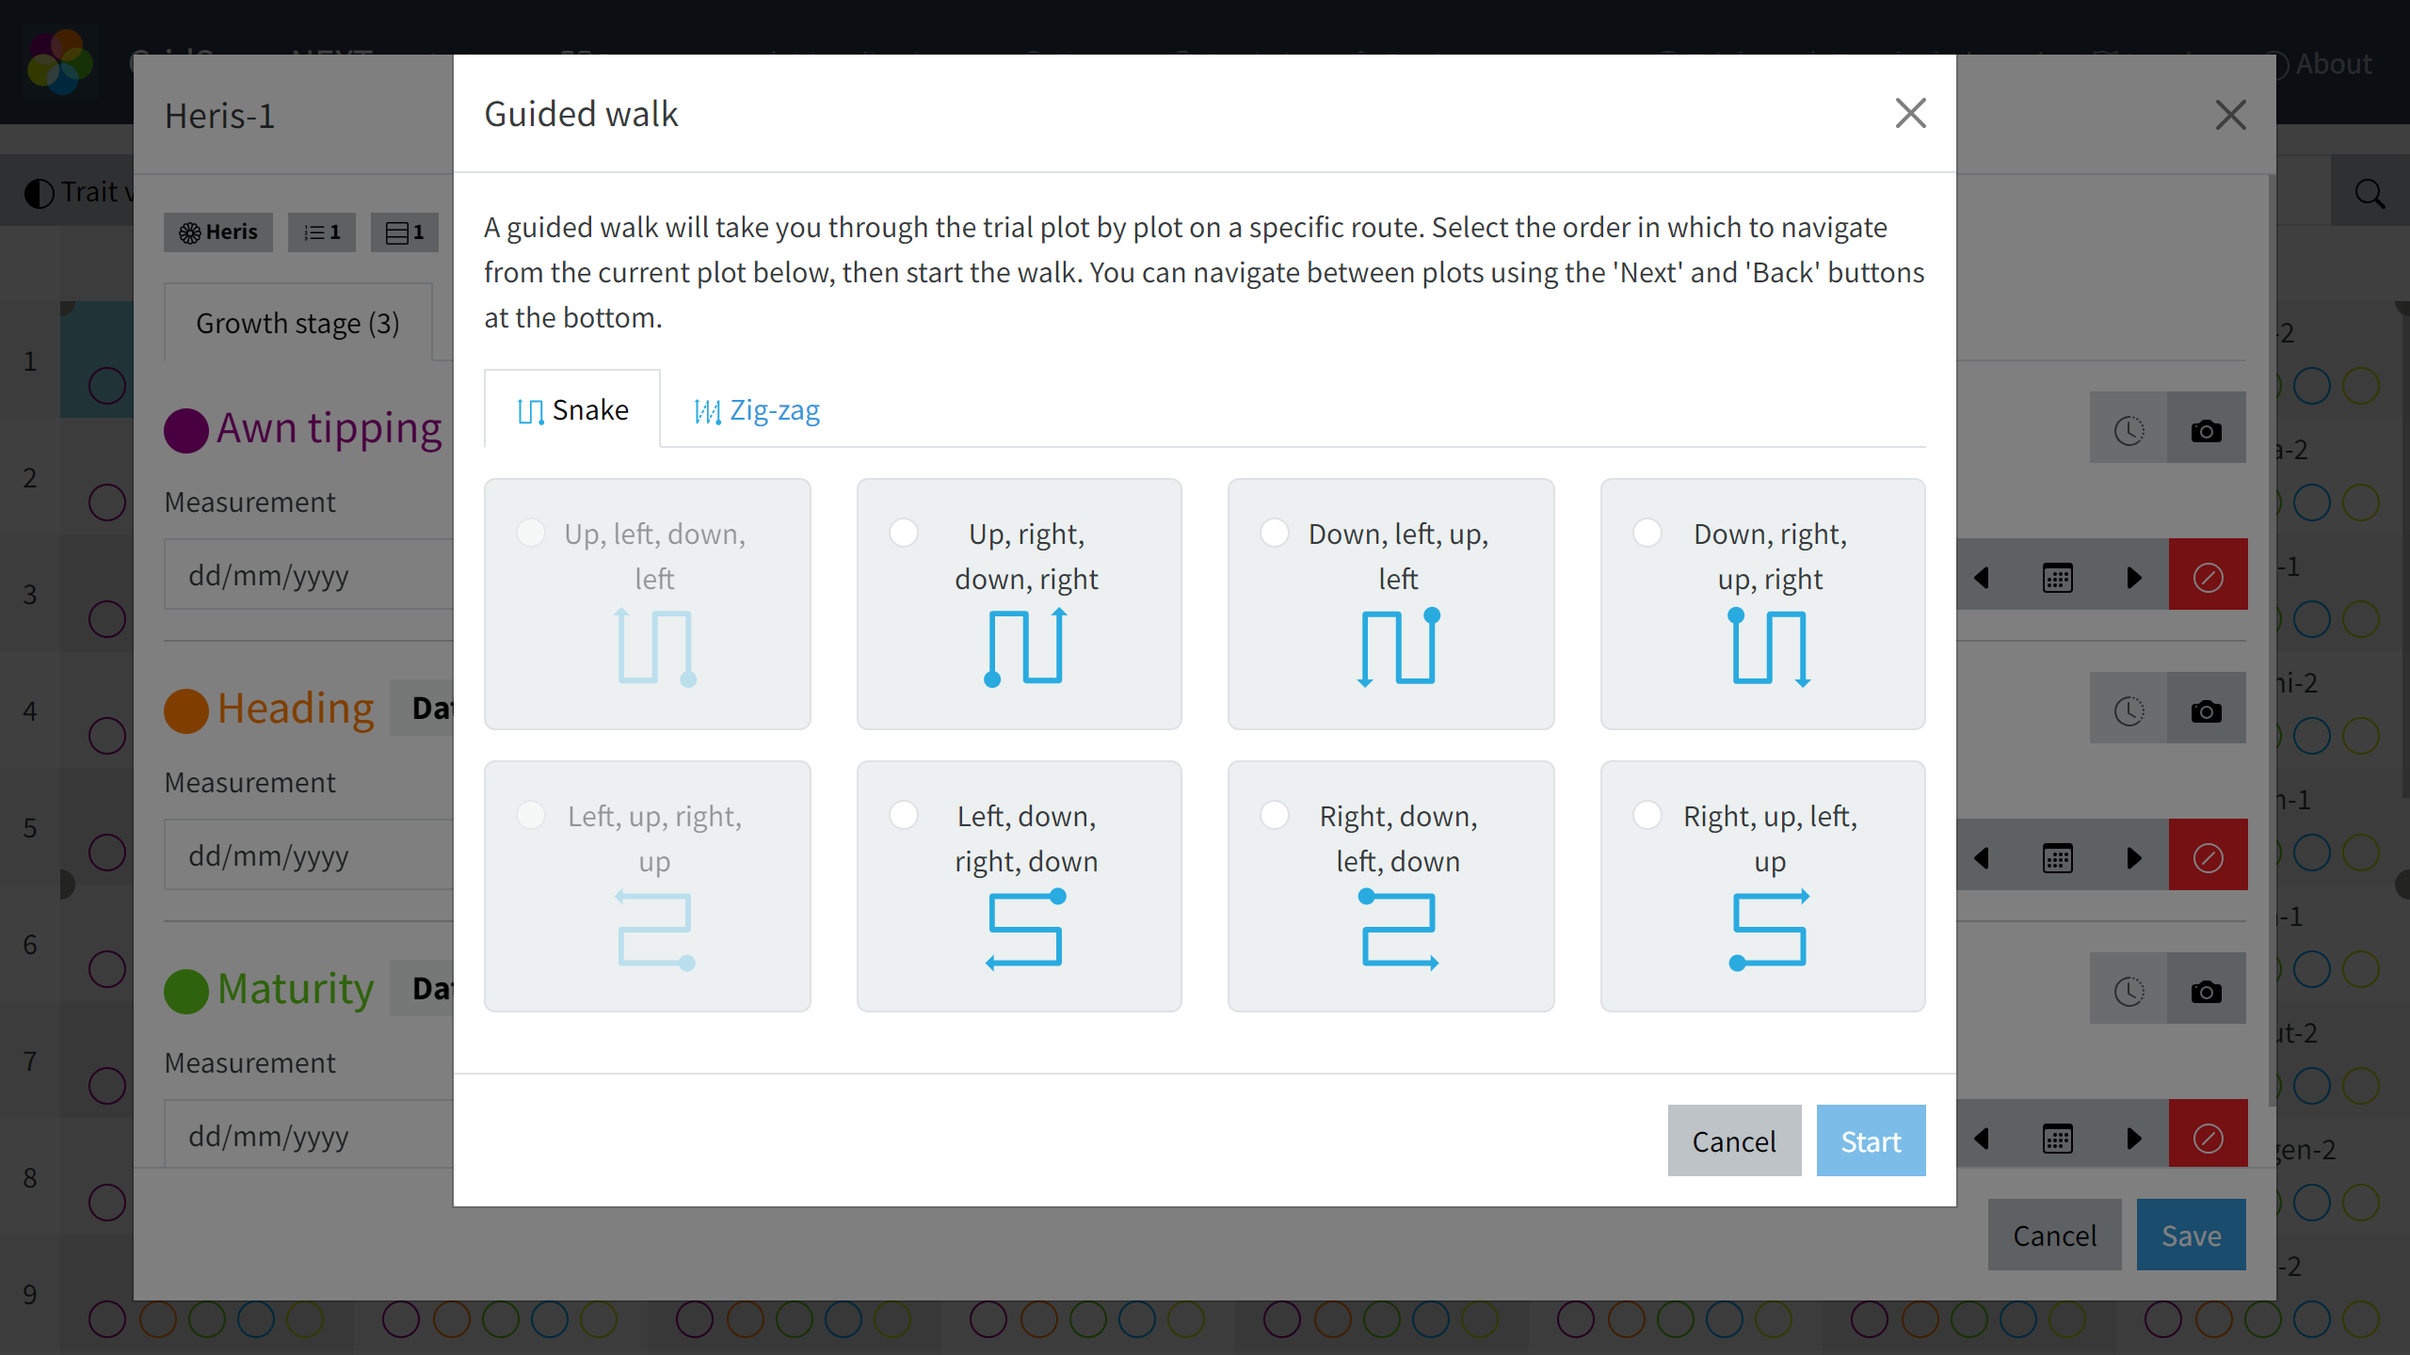
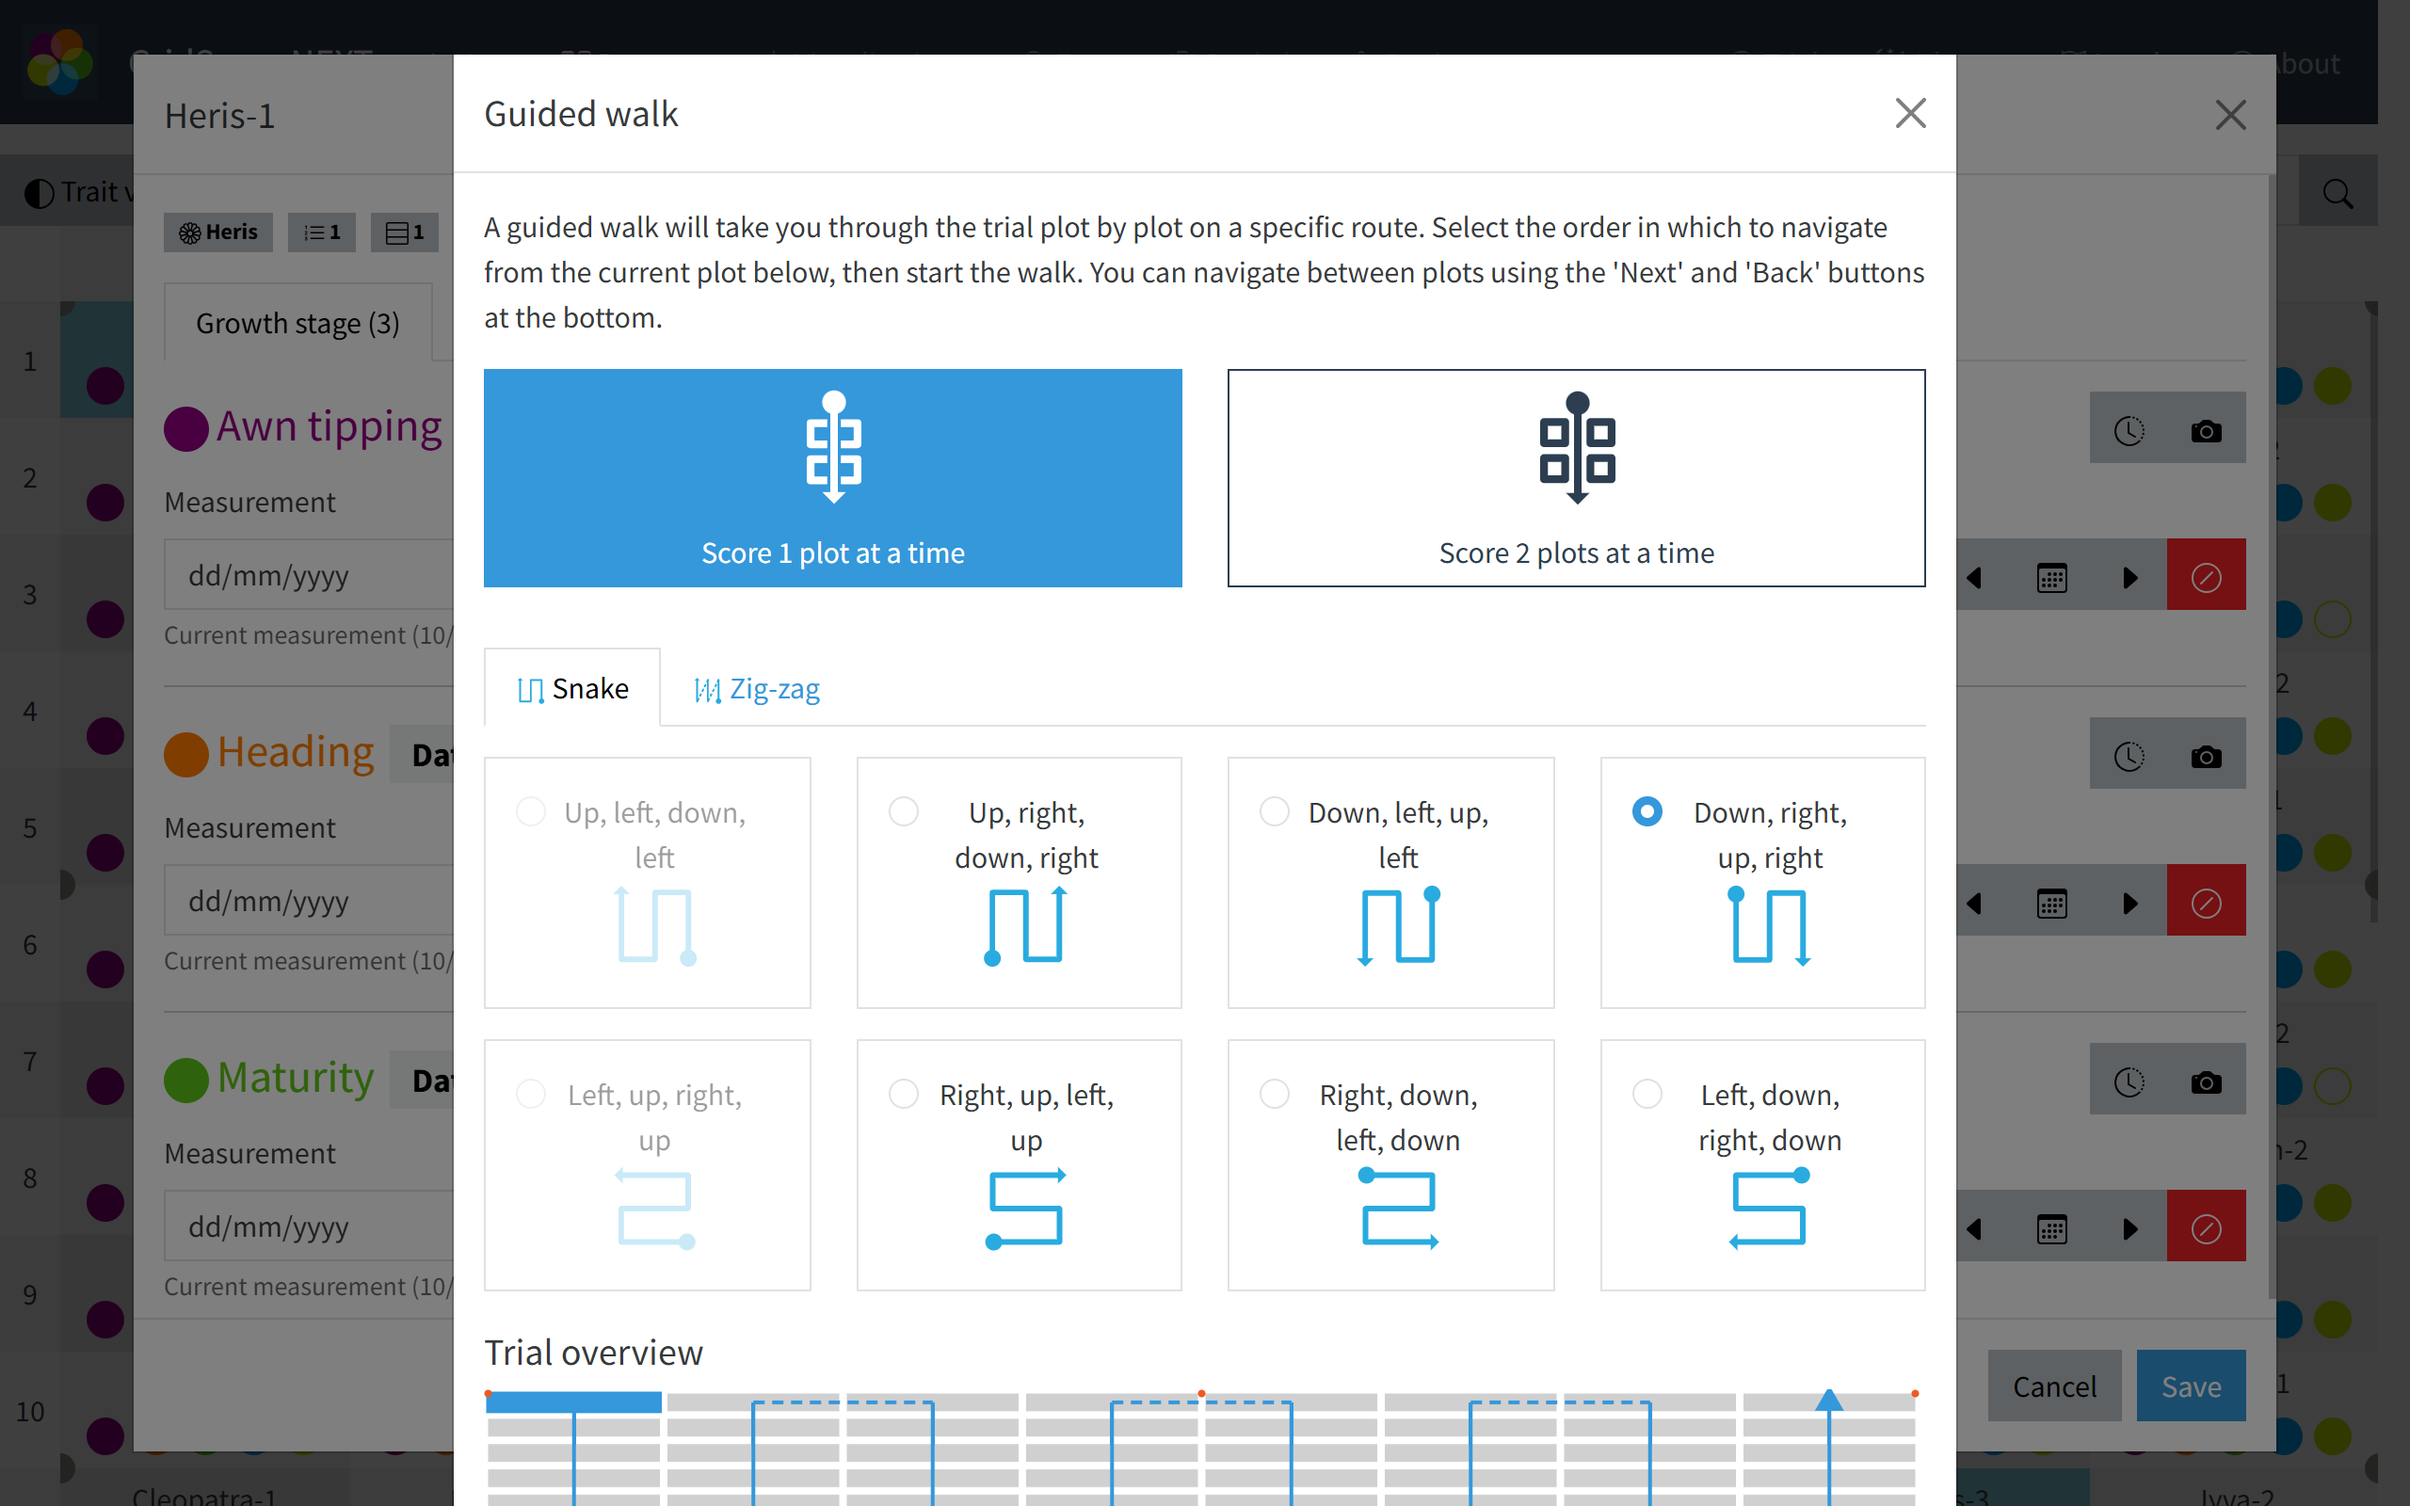
- CHG: Updated guided walk documentation. - FIX: Fixed tour on data input. - FIX: Fixed auto-selection of search bar. - ADD: Added Germinate Bluesky link.

diff --git a/src/App.vue b/src/App.vue
@@ -73,6 +73,7 @@
             <b-col cols=12 md=4>
               <ul class="nav justify-content-center justify-content-md-end list-unstyled d-flex">
                 <li class="mx-2"><a class="text-muted" href="https://ics.hutton.ac.uk/get-gridscore"><IBiGlobe2 /></a></li>
+                <li class="mx-2"><a class="text-muted" href="https://bsky.app/profile/germinate.hutton.ac.uk"><svg viewBox="0 0 24 24" width="1em" height="1em" class="mdi-icon" xmlns="http://www.w3.org/2000/svg"><path fill="currentColor" d="M5.202 2.857C7.954 4.922 10.913 9.11 12 11.358c1.087-2.247 4.046-6.436 6.798-8.501C20.783 1.367 24 .213 24 3.883c0 .733-.42 6.156-.667 7.037-.856 3.061-3.978 3.842-6.755 3.37 4.854.826 6.089 3.562 3.422 6.298-5.064 5.197-7.279-1.304-7.847-2.97-.104-.305-.152-.447-.153-.326 0-.121-.05.021-.153.327-.568 1.665-2.782 8.166-7.847 2.97-2.667-2.737-1.432-5.473 3.422-6.3-2.777.473-5.899-.308-6.755-3.369C.42 10.04 0 4.615 0 3.883c0-3.67 3.217-2.517 5.202-1.026Z" style="stroke-width:1"/></svg></a></li>
                 <li class="mx-2"><a class="text-muted" href="https://twitter.com/GerminateHub"><IBiTwitter /></a></li>
                 <li class="mx-2"><a class="text-muted" href="https://github.com/cropgeeks/gridscore-next-client"><IBiGithub /></a></li>
               </ul>

diff --git a/src/views/DataEntryView.vue b/src/views/DataEntryView.vue
@@ -133,9 +133,6 @@ export default {
     }
   },
   watch: {
-    searchTerm: function () {
-      this.$nextTick(() => this.initSearch())
-    },
     storeSelectedTrial: function () {
       this.loadTrial()
     },
@@ -199,10 +196,12 @@ export default {
       this.searchMatches = []
 
       const trimmed = this.searchTerm.trim()
-
+      
       if (trimmed.length < 1) {
         return
       }
+
+      this.searchTerm = ''
 
       const matches = getGermplasmMatches(this.trial, trimmed)
 
@@ -244,6 +243,8 @@ export default {
         this.updateLocalCaches()
 
         this.startGeoTracking()
+
+        this.$nextTick(() => this.selectSearch())
       })
     },
     updateLocalCaches: function () {
@@ -345,7 +346,7 @@ export default {
       }
     },
     selectSearch: function () {
-      if (this.storeAutoSelectSearch) {
+      if (this.storeAutoSelectSearch && this.$refs.germplasmSearch) {
         this.$refs.germplasmSearch.focus()
       }
     }
@@ -366,6 +367,8 @@ export default {
     emitter.on('select-search', this.selectSearch)
 
     // this.fakeGpsMovement()
+
+    this.selectSearch()
   },
   beforeUnmount: function () {
     emitter.off('trial-properties-changed', this.trialPropertiesChanged)

diff --git a/src/components/modals/DataInputModal.vue b/src/components/modals/DataInputModal.vue
@@ -21,7 +21,7 @@
       <h5 class="modal-title text-truncate"><span v-if="!isGuidedWalk || guidedWalk.scoreWidth === 1">{{ displayName }}</span></h5>
 
       <b-button-group id="data-entry-header" v-if="cell">
-        <VueDatePicker v-model="recordingDate" :locale="storeLocale" :dark="storeDarkMode" :week-start="1" :disabled="!trial.editable" :enable-time-picker="false" clearable :action-row="{ showPreview: false, showNow: true }" class="btn btn-sm btn-secondary w-auto">
+        <VueDatePicker v-model="recordingDate" :locale="storeLocale" :dark="storeDarkMode" :week-start="1" :disabled="!trial.editable" :enable-time-picker="false" clearable :action-row="{ showPreview: false, showNow: true }" class="btn btn-sm btn-secondary w-auto" id="toolbar-button-pick-date">
           <template #trigger>
             <span><IBiCalendarEvent /> <span class="d-none d-xl-inline-block"> {{ $t('buttonPickRecordingDate') }}</span></span>
           </template>

diff --git a/src/components/TraitHeading.vue b/src/components/TraitHeading.vue
@@ -1,8 +1,8 @@
 <template>
   <span :style="{ color: trait.color }">
     <TraitIcon :trait="trait" />
-    <span class="mx-1">{{ trait.name }}</span>
-    <b-badge class="mx-1" variant="light">{{ traitTypeText }}</b-badge>
+    <span class="mx-1 trait-name">{{ trait.name }}</span>
+    <b-badge class="mx-1 trait-data-type" variant="light">{{ traitTypeText }}</b-badge>
     <IBiCardText class="text-muted mx-1" v-b-tooltip="trait.description" v-if="showDescription && trait.description" />
     <BPopover
       v-if="trait.imageUrl || (trait.hasImage && traitImageConfig.priorityShareCode && traitImageConfig.serverUrl)"

diff --git a/docs/collecting-data.md b/docs/collecting-data.md
@@ -48,10 +48,13 @@ Sometimes you may be in a situation where someone has recorded some of the data 
 
 <img src="img/collection-guided-walk.png" style="max-width: 100%;" alt="Guided walk Snake">
 <img src="img/collection-guided-walk2.png" style="max-width: 100%;" alt="Guided walk Zig Zag">
+<img src="img/collection-guided-walk2.png" style="max-width: 100%;" alt="Guided walk Zig Zag 2 plots">
 
 Guided walks are a way for GridScore to guide you through the trial along one of eight pre-defined routes. This way you don't have to worry about selecting the correct next plot in the trial.
 
-To use this feature, select a starting plot from the main data view, then select the `Guided walk` button at the top. You will see the 8 different options of proceeding through the trial. Depending on the location of the starting plot, some options may be disabled as walking in that direction would directly finish the guided walk.
+To use this feature, select a starting plot from the main data view, then select the `Guided walk` button at the top. You'll now have to decide if you want to score a single plot at a time or two plots at a time while you're walking through the trial layout. Then you can select the type of traversal. A snake-like path will lead you along one row/column towards the end and then turn you back around so you can follow the next row/column. With the zig-zag option instead you'll be scoring all plots in the same direction as you traverse the trial row by row or column by column. This can be useful if you want to assess a plot with the same lighting conditions and sunlight angle.
+
+Within each traversal type, there are 8 different options of proceeding through the trial. Depending on the location of the starting plot, some options may be disabled as walking in that direction would directly finish the guided walk.
 
 <img src="img/collection-guided-walk-input.png" style="max-width: 100%;" alt="Guided walk data input">
 
